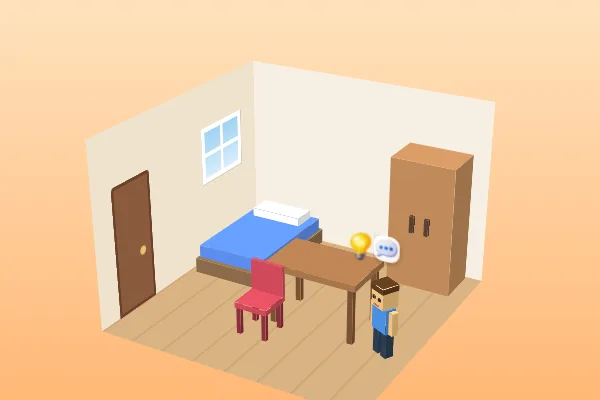
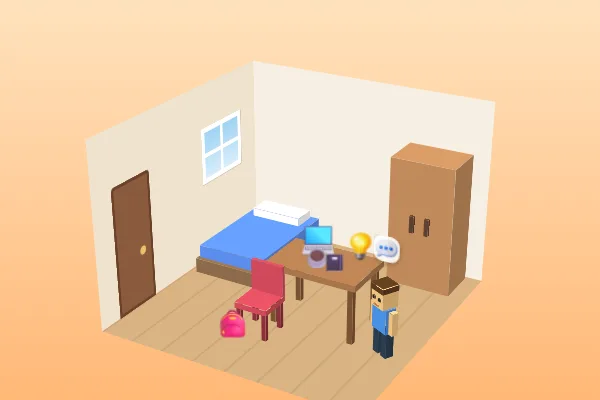
Kamer: more realistic objects (A1: laptop, kopje, schrift, rugzak; A2: koptelefoon, sneakers, plant)
Claude-Session: https://claude.ai/code/session_01FETwGYCmP3yDpEjBBWkch4

Changed region(s): [[0.48, 0.54, 0.57, 0.69], [0.36, 0.78, 0.42, 0.87]]

diff --git a/sw.js b/sw.js
@@ -1,6 +1,6 @@
 /* Leren.be offline cache. Relative paths support GitHub Pages project sites. */
-const CACHE_NAME = "leren-be-v188";
-const APP_FILES = ["./course-curriculum.js?v=178", "./modules/card-art/art.js?v=147", "./modules/card-art/people.js?v=135", "./modules/card-art/food.js?v=135", "./modules/card-art/things.js?v=135", "./modules/card-art/places.js?v=135", "./modules/card-art/more-people.js?v=135", "./modules/card-art/more-things.js?v=135", "./modules/emoji/cards.js?v=146", "./modules/emoji/variants.js?v=147", "./modules/emoji/renderer.js?v=177", "./modules/clock/clock.js", "./modules/exam/exam-core.js?v=176", "./modules/exam/exam11.js?v=176", "./modules/exam/exam12-data.js?v=173", "./modules/exam/exam12.js?v=177", "./", "./index.html", "./app.js?v=188", "./boot.js?v=188", "./manifest.webmanifest", "./favicon-32.png", "./apple-touch-icon.png", "./icon-192.png", "./icon-512.png", "./icon-maskable-512.png", "./privacy.html", "./fonts/nunito.woff", "./fonts/unbounded.woff", "./dict/nl.json", "./img/chars/peter.webp", "./img/chars/peter-wow.webp", "./img/chars/peter-think.webp", "./img/chars/peter-sad.webp", "./img/chars/dafna.webp", "./img/chars/dafna-wow.webp", "./img/chars/dafna-think.webp", "./img/chars/dafna-sad.webp", "./modules/clock/widget.html", "./modules/clock/widget.js", "./modules/diphthongs/widget.js?v=176", "./modules/diphthongs/widget.html?v=87", "./modules/diphthongs/widget.css?v=87", "./modules/diphthongs/words.json?v=87", "./img/topics/birthday.svg", "./img/topics/comm.svg", "./img/topics/contact.svg", "./img/topics/dag.svg", "./img/topics/food.svg", "./img/topics/forms.svg", "./img/topics/grammar.svg", "./img/topics/grammar2.svg", "./img/topics/health.svg", "./img/topics/holiday.svg", "./img/topics/nums.svg", "./img/topics/opening.svg", "./img/topics/past.svg", "./img/topics/people.svg", "./img/topics/plans.svg", "./img/topics/reading.svg", "./img/topics/service.svg", "./img/topics/shopping.svg", "./img/topics/travel.svg", "./img/topics/travelTime.svg", "./img/topics/wonen.svg", "./img/topics/daily.svg", "./img/topics/work.svg", "./img/topics/a2work.svg", "./img/topics/a2wonen.svg", "./img/topics/a2zorg.svg", "./img/topics/a2admin.svg", "./img/topics/a2school.svg", "./img/topics/a2geld.svg", "./img/topics/a2nieuws.svg", "./img/topics/a2samen.svg", "./img/topics/a2gram.svg", "./img/topics/zorg.svg", "./img/topics/stad.svg", "./img/topics/school.svg", "./img/topics/vrijetijd.svg", "./img/topics/sociaal.svg", "./img/topics/future.svg", "./modules/diphthongs/lesson-core.js?v=87", "./modules/sync/merge.js?v=175", "./modules/review/srs.js?v=175", "./modules/insights/core.js?v=174", "./modules/learning-path/core.js?v=175", "./modules/rewards/core.js?v=174", "./modules/companion/ui.js?v=116", "./modules/rewards/gifts.js?v=174", "./modules/rewards/ui.js?v=179", "./modules/learning-path/ui.js?v=179", "./modules/dialogues/translations.js?v=177", "./modules/learning-path/style.css?v=177", "./modules/rewards/style.css?v=102", "./modules/companion/style.css?v=102", "./img/mascot/student-cat-v1.png", "./audio/nl/pronunciation-v105/7dc692a9.m4a", "./audio/nl/pronunciation-v105/c79493aa.m4a", "./audio/nl-f/pronunciation-v105/7dc692a9.m4a", "./audio/nl-f/pronunciation-v105/c79493aa.m4a", "./modules/focused-home/ui.js?v=178", "./modules/desktop-home/ui.js?v=150", "./modules/desktop-home/style.css?v=151", "./modules/focused-home/style.css?v=178", "./modules/test-library/ui.js?v=180", "./modules/test-library/style.css?v=109", "./img/tests/first-steps-v109.webp", "./img/tests/everyday-v109.webp", "./img/tests/practice-v109.webp", "./modules/game-gallery/style.css?v=111", "./img/games/story-v111.webp", "./img/games/ai-v111.webp", "./img/games/ask-v111.webp", "./img/games/dlg-v111.webp", "./img/games/rp-v111.webp", "./img/games/sp-v111.webp", "./img/games/bl-v111.webp", "./img/games/mm-v111.webp", "./img/games/dc-v111.webp", "./img/games/md-v111.webp", "./img/games/om-v111.webp", "./img/games/ks-v111.webp", "./modules/lesson-conversation/content.js?v=174", "./modules/lesson-conversation/core.js?v=112", "./modules/lesson-conversation/ui.js?v=112", "./modules/ai-coach/core.js?v=169", "./modules/ai-coach/ui.js?v=169", "./modules/word-builder/art.js?v=150", "./modules/word-builder/game.js?v=172", "./modules/word-builder/style.css?v=172", "./img/games/wb-v114.webp", "./modules/kamer/game.js?v=187", "./modules/kamer/style.css?v=187", "./img/games/kamer-v186.webp", "./img/games/kamer1-v187.webp"];
+const CACHE_NAME = "leren-be-v189";
+const APP_FILES = ["./course-curriculum.js?v=178", "./modules/card-art/art.js?v=147", "./modules/card-art/people.js?v=135", "./modules/card-art/food.js?v=135", "./modules/card-art/things.js?v=135", "./modules/card-art/places.js?v=135", "./modules/card-art/more-people.js?v=135", "./modules/card-art/more-things.js?v=135", "./modules/emoji/cards.js?v=146", "./modules/emoji/variants.js?v=147", "./modules/emoji/renderer.js?v=177", "./modules/clock/clock.js", "./modules/exam/exam-core.js?v=176", "./modules/exam/exam11.js?v=176", "./modules/exam/exam12-data.js?v=173", "./modules/exam/exam12.js?v=177", "./", "./index.html", "./app.js?v=189", "./boot.js?v=189", "./manifest.webmanifest", "./favicon-32.png", "./apple-touch-icon.png", "./icon-192.png", "./icon-512.png", "./icon-maskable-512.png", "./privacy.html", "./fonts/nunito.woff", "./fonts/unbounded.woff", "./dict/nl.json", "./img/chars/peter.webp", "./img/chars/peter-wow.webp", "./img/chars/peter-think.webp", "./img/chars/peter-sad.webp", "./img/chars/dafna.webp", "./img/chars/dafna-wow.webp", "./img/chars/dafna-think.webp", "./img/chars/dafna-sad.webp", "./modules/clock/widget.html", "./modules/clock/widget.js", "./modules/diphthongs/widget.js?v=176", "./modules/diphthongs/widget.html?v=87", "./modules/diphthongs/widget.css?v=87", "./modules/diphthongs/words.json?v=87", "./img/topics/birthday.svg", "./img/topics/comm.svg", "./img/topics/contact.svg", "./img/topics/dag.svg", "./img/topics/food.svg", "./img/topics/forms.svg", "./img/topics/grammar.svg", "./img/topics/grammar2.svg", "./img/topics/health.svg", "./img/topics/holiday.svg", "./img/topics/nums.svg", "./img/topics/opening.svg", "./img/topics/past.svg", "./img/topics/people.svg", "./img/topics/plans.svg", "./img/topics/reading.svg", "./img/topics/service.svg", "./img/topics/shopping.svg", "./img/topics/travel.svg", "./img/topics/travelTime.svg", "./img/topics/wonen.svg", "./img/topics/daily.svg", "./img/topics/work.svg", "./img/topics/a2work.svg", "./img/topics/a2wonen.svg", "./img/topics/a2zorg.svg", "./img/topics/a2admin.svg", "./img/topics/a2school.svg", "./img/topics/a2geld.svg", "./img/topics/a2nieuws.svg", "./img/topics/a2samen.svg", "./img/topics/a2gram.svg", "./img/topics/zorg.svg", "./img/topics/stad.svg", "./img/topics/school.svg", "./img/topics/vrijetijd.svg", "./img/topics/sociaal.svg", "./img/topics/future.svg", "./modules/diphthongs/lesson-core.js?v=87", "./modules/sync/merge.js?v=175", "./modules/review/srs.js?v=175", "./modules/insights/core.js?v=174", "./modules/learning-path/core.js?v=175", "./modules/rewards/core.js?v=174", "./modules/companion/ui.js?v=116", "./modules/rewards/gifts.js?v=174", "./modules/rewards/ui.js?v=179", "./modules/learning-path/ui.js?v=179", "./modules/dialogues/translations.js?v=177", "./modules/learning-path/style.css?v=177", "./modules/rewards/style.css?v=102", "./modules/companion/style.css?v=102", "./img/mascot/student-cat-v1.png", "./audio/nl/pronunciation-v105/7dc692a9.m4a", "./audio/nl/pronunciation-v105/c79493aa.m4a", "./audio/nl-f/pronunciation-v105/7dc692a9.m4a", "./audio/nl-f/pronunciation-v105/c79493aa.m4a", "./modules/focused-home/ui.js?v=178", "./modules/desktop-home/ui.js?v=150", "./modules/desktop-home/style.css?v=151", "./modules/focused-home/style.css?v=178", "./modules/test-library/ui.js?v=180", "./modules/test-library/style.css?v=109", "./img/tests/first-steps-v109.webp", "./img/tests/everyday-v109.webp", "./img/tests/practice-v109.webp", "./modules/game-gallery/style.css?v=111", "./img/games/story-v111.webp", "./img/games/ai-v111.webp", "./img/games/ask-v111.webp", "./img/games/dlg-v111.webp", "./img/games/rp-v111.webp", "./img/games/sp-v111.webp", "./img/games/bl-v111.webp", "./img/games/mm-v111.webp", "./img/games/dc-v111.webp", "./img/games/md-v111.webp", "./img/games/om-v111.webp", "./img/games/ks-v111.webp", "./modules/lesson-conversation/content.js?v=174", "./modules/lesson-conversation/core.js?v=112", "./modules/lesson-conversation/ui.js?v=112", "./modules/ai-coach/core.js?v=169", "./modules/ai-coach/ui.js?v=169", "./modules/word-builder/art.js?v=150", "./modules/word-builder/game.js?v=172", "./modules/word-builder/style.css?v=172", "./img/games/wb-v114.webp", "./modules/kamer/game.js?v=189", "./modules/kamer/style.css?v=187", "./img/games/kamer-v186.webp", "./img/games/kamer1-v187.webp"];
 
 APP_FILES.push("./img/learning-path/wake-cat-v1.png");
 APP_FILES.push("./img/mascot/fill-gap-cat.png");
@@ -33,7 +33,7 @@ self.addEventListener("install", event => {
   event.waitUntil((async () => {
     const cache = await caches.open(CACHE_NAME);
     // Install the app shell atomically; optional media must not block updates.
-    const critical = ["./", "./index.html", "./app.js?v=188", "./boot.js?v=188", "./course-curriculum.js?v=178", "./manifest.webmanifest"];
+    const critical = ["./", "./index.html", "./app.js?v=189", "./boot.js?v=189", "./course-curriculum.js?v=178", "./manifest.webmanifest"];
     await cache.addAll(critical);
     const optional = APP_FILES.filter(file => !critical.includes(file));
     // Bound concurrent downloads to avoid overwhelming mobile connections.

diff --git a/modules/kamer/game.js b/modules/kamer/game.js
@@ -26,6 +26,11 @@
   fles:['de','fles','пляшка','bottle','bouteille','زجاجة','Ik heb een fles water.','У мене є пляшка води.','I have a bottle of water.','J’ai une bouteille d’eau.','لدي زجاجة ماء.','🥤'],
   rugzak:['de','rugzak','рюкзак','backpack','sac à dos','حقيبة ظهر','Mijn rugzak is zwaar.','Мій рюкзак важкий.','My backpack is heavy.','Mon sac à dos est lourd.','حقيبتي الظهرية ثقيلة.','🎒'],
   trui:['de','trui','светр','sweater','pull','كنزة','Ik draag een warme trui.','Я ношу теплий светр.','I am wearing a warm sweater.','Je porte un pull chaud.','أرتدي كنزة دافئة.','👕'],
+  laptop:['de','laptop','ноутбук','laptop','ordinateur portable','حاسوب محمول','Mijn laptop staat op de tafel.','Мій ноутбук стоїть на столі.','My laptop is on the table.','Mon ordinateur portable est sur la table.','حاسوبي المحمول على الطاولة.','💻'],
+  schrift:['het','schrift','зошит','notebook','cahier','دفتر','Ik schrijf in mijn schrift.','Я пишу у своєму зошиті.','I write in my notebook.','J’écris dans mon cahier.','أكتب في دفتري.','📓'],
+  koptelefoon:['de','koptelefoon','навушники','headphones','casque','سماعات الرأس','Ik luister naar muziek met mijn koptelefoon.','Я слухаю музику в навушниках.','I listen to music with my headphones.','J’écoute de la musique avec mon casque.','أستمع إلى الموسيقى بسماعات الرأس.','🎧'],
+  sneakers:['de','sneakers','кросівки','sneakers','baskets','أحذية رياضية','Mijn sneakers staan bij de deur.','Мої кросівки стоять біля дверей.','My sneakers are by the door.','Mes baskets sont près de la porte.','حذائي الرياضي بجانب الباب.','👟'],
+  plant:['de','plant','рослина','plant','plante','نبتة','De plant staat bij het raam.','Рослина стоїть біля вікна.','The plant is by the window.','La plante est près de la fenêtre.','النبتة بجانب النافذة.','🌱'],
   jas:['de','jas','куртка','coat','manteau','معطف','Ik trek mijn jas aan.','Я вдягаю куртку.','I put on my coat.','J’enfile mon manteau.','أرتدي معطفي.','🧥']
  };
  const L=(o,lang)=>o[2+Math.max(0,LANGS.indexOf(lang))],EX=(o,lang)=>o[7+Math.max(0,LANGS.indexOf(lang))];
@@ -95,7 +100,9 @@
   things.push(billboard('lamp',58,13,2,30,pic('lamp')),billboard('boeken',6,17,12,28,pic('boeken')),billboard('kopje',32,20,26,22,pic('kopje')),billboard('sleutels',22,24,-4,18,pic('sleutels')));
   things.push(billboard('fles',8,-24,-100,24,pic('fles')));
   things.push(billboard('rugzak',-18,69,78,30,pic('rugzak')),billboard('trui',48,70,70,30,pic('trui')));
-  const shown=opts.keep?things.filter(t=>opts.keep.has(t.dataset.item)):things;
+  things.push(billboard('laptop',22,14,8,32,pic('laptop')),billboard('schrift',46,22,24,20,pic('schrift')),billboard('koptelefoon',-70,43,-30,24,pic('koptelefoon')),billboard('sneakers',-95,72,48,26,pic('sneakers')),billboard('plant',100,66,62,28,pic('plant')));
+  const A1X=new Set(['laptop','schrift']);
+  const shown=opts.keep?things.filter(t=>opts.keep.has(t.dataset.item)):things.filter(t=>!A1X.has(t.dataset.item));
   shown.forEach(t=>{const id=t.dataset.item;t.tabIndex=0;t.setAttribute('role','button');t.setAttribute('aria-label',O[id][0]+' '+O[id][1]);room.appendChild(t)});
   if(opts.sam)room.appendChild(buildSam(host));
   return room;
@@ -214,7 +221,7 @@
   menu();
  }
  // ================= A1 version: "Kamer van Pieter & Sam" (buttons only, 7 objects, 5 tasks, 8 talks with Sam) =================
- const A1_OBJ=['bed','tafel','stoel','kast','raam','deur','lamp'];
+ const A1_OBJ=['bed','tafel','stoel','kast','raam','deur','lamp','laptop','kopje','schrift','rugzak'];
  const A1_KEY='leren_kamer1_v1';
  const A1T={
   uk:{title:'Kamer van Pieter & Sam',sub:'Кімната Пітера й друг Sam: слова, прості питання, діалоги',talk:'Розмова з Sam',talkS:'8 коротких діалогів: вибирай відповіді кнопками',stars:'Зірки',tapSam:'Klik op Sam om te praten.',tapSamT:'Натисни на Sam, щоб поговорити.',q:'?',showTr:'Переклад',samSays:'Sam',choose:'Обери відповідь',round:'Питання',again:'Ще раз',great:'Je kent de kamer nu.',greatT:'Тепер ти знаєш кімнату.',talkDone:'Je kunt nu goed praten met Sam!',talkDoneT:'Тепер ти добре розмовляєш із Sam!',ok:['Goed zo!','Добре!'],ok2:['Heel goed!','Дуже добре!'],no:['Probeer nog een keer.','Спробуй ще раз.'],passed:'Завдання виконано! +1 зірка',notYet:'Ще трохи практики. Спробуй знову.',talkStar:'Розмову завершено! +1 зірка',next:'Далі',list:'До списку'},

diff --git a/index.html b/index.html
@@ -1037,7 +1037,7 @@ button.om-chip{cursor:pointer}button.om-chip:hover{border-color:var(--role-v)}
 <link rel="stylesheet" href="./modules/focused-home/style.css?v=178">
 <link rel="stylesheet" href="./modules/desktop-home/style.css?v=151">
 <link rel="stylesheet" href="./modules/word-builder/style.css?v=172">
-<link rel="stylesheet" href="./modules/kamer/style.css?v=187">
+<link rel="stylesheet" href="./modules/kamer/style.css?v=189">
 <link rel="stylesheet" href="./modules/test-library/style.css?v=109">
 <link rel="stylesheet" href="./modules/game-gallery/style.css?v=111">
 
@@ -1238,7 +1238,7 @@ button.om-chip{cursor:pointer}button.om-chip:hover{border-color:var(--role-v)}
 <button type="button" id="searchBtn" hidden></button><button type="button" id="searchClose" hidden></button>
 
 <!-- App modules: loaded after the page markup so the page (and its static summary) shows without waiting; their order is kept. -->
-<script src="./boot.js?v=188"></script>
+<script src="./boot.js?v=189"></script>
 <script src="./modules/review/srs.js?v=175"></script>
 <script src="./modules/sync/merge.js?v=175"></script>
 <script src="./modules/insights/core.js?v=174"></script>
@@ -1268,11 +1268,11 @@ button.om-chip{cursor:pointer}button.om-chip:hover{border-color:var(--role-v)}
 <script src="./modules/emoji/variants.js?v=147"></script>
 <script src="./modules/emoji/renderer.js?v=177"></script>
 <script src="./modules/word-builder/game.js?v=172"></script>
-<script src="./modules/kamer/game.js?v=187"></script>
+<script src="./modules/kamer/game.js?v=189"></script>
 <script src="./modules/learning-path/ui.js?v=179"></script>
 <script src="./modules/dialogues/translations.js?v=177"></script>
 <script src="./course-curriculum.js?v=178"></script>
-<script src="./app.js?v=188"></script>
+<script src="./app.js?v=189"></script>
   <div class="modes-wrapper" id="modeButtons"></div>
    <!-- LEREN.BE — МОДУЛЬ ДИФТОНГІВ -->
 <script src="./modules/exam/exam-core.js?v=176" defer></script>

diff --git a/app.js b/app.js
@@ -5921,7 +5921,7 @@ const UPD_UI={uk:{t:"Вийшла нова версія застосунку",ve
  ar:{t:"يتوفر إصدار جديد من التطبيق",ver:"الإصدار",go:"تحديث",done:"✓ تم تحديث التطبيق إلى الإصدار "}};
 const updU=()=>UPD_UI[uiLang]||UPD_UI.uk;
 // Keep the announcement available after updating, including users who already installed v87.
-const RELEASE_VERSION="188";
+const RELEASE_VERSION="189";
 // The release whose notes RELEASE_UI describes. A small update keeps the notes of the last bigger one: whoever already
 // saw those notes is not shown them again.
 const RELEASE_NOTES_VERSION="176";
